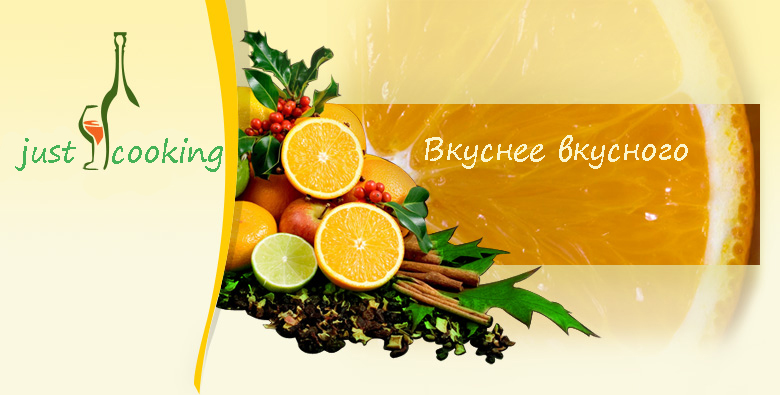
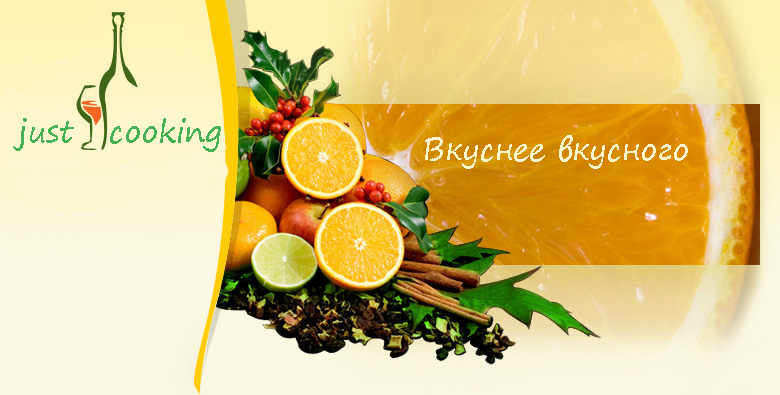
Сделал поиск для пользователя

Changed region(s): [[0.0, 0.0304, 0.3077, 0.4557]]

diff --git a/templatemo_style.css b/templatemo_style.css
@@ -47,7 +47,7 @@ a:active, a:hover { color: #f26521; text-decoration: underline; }
 #templatemo_menu {
 	float: left;
 	width: 152px;
-	margin: 200px 0 0 30px;
+	margin: 165px 0 0 30px;
 	padding: 0;
 }
 

diff --git a/application/views/searchs.php b/application/views/searchs.php
@@ -1,0 +1,72 @@
+            <div id="templatemo_right_col">
+                <div id="form_search">
+                	<?php
+						$attributes = array(
+						    'class' => 'user_search', 
+						    'id' => 'form_user_searc'
+						);
+						echo form_open('users/searchs/search', $attributes); 
+					?>
+							<input type="text" name="search_text" />
+							<input type="submit" name="user_search_btn" id="btn_search" value="Найти" />
+					<?php 
+						echo form_close();
+					?>
+                </div>
+                <?php
+                if(isset($searchflag) && $searchflag == 1){
+				?>
+            	<div class="templatemo_post_area">
+            		<h1>Рецепты</h1>
+            	</div>
+            	<ul>
+            	<?php foreach ($recipes as $item):?>
+					<li>
+						<a href="<?=base_url();?>users/recipes/show/<?=$item['recipe_id']?>">
+							<img src="<?=base_url();?>images/<?=$item['image']?>" height="150" width="150"/>
+						</a>
+						&nbsp;
+						<a href="<?=base_url();?>users/recipes/show/<?=$item['recipe_id']?>">
+							<?=$item['description']?>
+						</a>
+					</li>
+				<?php endforeach; ?>
+            	</ul>
+                <div id="pagination">
+                	<?php
+	                	for ($i=1; $i <= $recordCount + 1; $i++):
+                			if ($pageIndex == 1){
+	                ?> 
+                				<a href="<?=base_url();?>users/news/index/<?=$i?>"
+                					<?php 
+										if($i == $currentPage) 
+											echo 'class="current"';
+									?>
+                				><?=$i?></a>
+	                <?php
+                			}
+                			if ($pageIndex == 2){
+	                ?> 
+                				<a href="<?=base_url();?>users/feast/index/<?=$i?>"
+                					<?php 
+										if($i == $currentPage) 
+											echo 'class="current"';
+									?>
+                				><?=$i?></a>
+	                <?php
+                			}
+                			if ($pageIndex == 3){
+	                ?> 
+                				<a href="<?=base_url();?>users/daily/index/<?=$i?>"
+                					<?php 
+										if($i == $currentPage) 
+											echo 'class="current"';
+									?>
+                				><?=$i?></a>
+	                <?php
+                			}
+                		endfor; ?>
+                </div>
+                <?php 
+            	}
+            	?>

diff --git a/application/controllers/users/Searchs.php b/application/controllers/users/Searchs.php
@@ -1,0 +1,79 @@
+<?php
+defined('BASEPATH') OR exit('No direct script access allowed');
+
+class Coments {
+	public $coment = null;
+	public $user = null;
+
+	function __construct($c,$u){
+        $this->coment = $c;
+        $this->user = $u;
+    }
+}
+
+class Searchs extends CI_Controller {
+
+	public function getTitleComent()
+	{
+		$this->load->model('coment');
+		$this->db->order_by('datetime', 'desc');
+		$this->db->limit (5, 0);
+		$coment = $this->coment->getlist();
+		
+		$this->load->model('user');
+		$users = array();
+		$coments = array();
+		foreach ($coment as $value) {
+			$temp = $this->user->get($value['user_id']);
+			foreach ($temp as $var) {
+				$temp = $var;
+				break;
+				}
+			$coments[] = new Coments($value,$temp);
+		}
+		return $coments;
+	}
+
+	public function index($id = 1)
+	{
+		$titlecoment = $this->getTitleComent();
+		$data = array(
+			'titlecoment' => $titlecoment,
+			'pageIndex' => 4,
+			'currentPage' => $id,
+			'username' => $this->session->userdata('username'),
+			'title' => 'Поиск рецепта'
+			);
+		$this->load->helper('url');
+		$this->load->view('users/menu',$data);
+		$this->load->view('searchs',$data);
+		$this->load->view('users/footer');
+	}
+
+	public function search($id = 1)
+	{
+		if(isset($_POST['user_search_btn'])){
+			$titlecoment = $this->getTitleComent();
+			$this->load->model('recipe');
+			$datain = $_POST['search_text'];
+			$this->db->like('description', $datain);
+			$this->db->limit (10, ($id - 1) * 10);
+			$recipes = $this->recipe->getlist();
+			$recordCount = count($this->recipe->getlist()) / 10;
+			$data = array(
+				'recipes' => $recipes,
+				'titlecoment' => $titlecoment,
+				'pageIndex' => 4,
+				'currentPage' => $id,
+				'searchflag' => 1,
+				'recordCount' => $recordCount,
+				'username' => $this->session->userdata('username'),
+				'title' => 'Поиск рецепта'
+				);
+			$this->load->helper('url');
+			$this->load->view('users/menu',$data);
+			$this->load->view('searchs',$data);
+			$this->load->view('users/footer');
+		}
+	}
+}

diff --git a/application/controllers/admin/Search.php b/application/controllers/admin/Search.php
@@ -1,0 +1,51 @@
+<?php
+defined('BASEPATH') OR exit('No direct script access allowed');
+
+class Coments {
+	public $coment = null;
+	public $user = null;
+
+	function __construct($c,$u){
+        $this->coment = $c;
+        $this->user = $u;
+    }
+}
+
+class Search extends CI_Controller {
+
+	public function getTitleComent()
+	{
+		$this->load->model('coment');
+		$this->db->order_by('datetime', 'desc');
+		$this->db->limit (5, 0);
+		$coment = $this->coment->getlist();
+		
+		$this->load->model('user');
+		$users = array();
+		$coments = array();
+		foreach ($coment as $value) {
+			$temp = $this->user->get($value['user_id']);
+			foreach ($temp as $var) {
+				$temp = $var;
+				break;
+				}
+			$coments[] = new Coments($value,$temp);
+		}
+		return $coments;
+	}
+
+	public function index($data = "")
+	{
+		$titlecoment = $this->getTitleComent();
+		$data = array(
+			'titlecoment' => $titlecoment,
+			'pageIndex' => 0,
+			'username' => $this->session->userdata('username'),
+			'title' => 'Главная страница'
+			);
+		$this->load->helper('url');
+		$this->load->view('users/menu',$data);
+		$this->load->view('home');
+		$this->load->view('users/footer');
+	}
+}

diff --git a/application/controllers/forum/Search.php b/application/controllers/forum/Search.php
@@ -1,0 +1,51 @@
+<?php
+defined('BASEPATH') OR exit('No direct script access allowed');
+
+class Coments {
+	public $coment = null;
+	public $user = null;
+
+	function __construct($c,$u){
+        $this->coment = $c;
+        $this->user = $u;
+    }
+}
+
+class Search extends CI_Controller {
+
+	public function getTitleComent()
+	{
+		$this->load->model('coment');
+		$this->db->order_by('datetime', 'desc');
+		$this->db->limit (5, 0);
+		$coment = $this->coment->getlist();
+		
+		$this->load->model('user');
+		$users = array();
+		$coments = array();
+		foreach ($coment as $value) {
+			$temp = $this->user->get($value['user_id']);
+			foreach ($temp as $var) {
+				$temp = $var;
+				break;
+				}
+			$coments[] = new Coments($value,$temp);
+		}
+		return $coments;
+	}
+
+	public function index($data = "")
+	{
+		$titlecoment = $this->getTitleComent();
+		$data = array(
+			'titlecoment' => $titlecoment,
+			'pageIndex' => 0,
+			'username' => $this->session->userdata('username'),
+			'title' => 'Главная страница'
+			);
+		$this->load->helper('url');
+		$this->load->view('users/menu',$data);
+		$this->load->view('home');
+		$this->load->view('users/footer');
+	}
+}

diff --git a/application/views/users/menu.php b/application/views/users/menu.php
@@ -91,6 +91,15 @@
 						</a>
 					</li>
 					<li>
+						<a href="<?=base_url();?>users/searchs/index" 
+							<?php if($uri == 'users/searchs' || $pageIndex == 4) 
+								echo 'class="current"';
+							?>
+						>
+							Поиск&nbsp;рецептов
+						</a>
+					</li>
+					<li>
 						<a href="<?=base_url();?>users/news" 
 							<?php if($uri == 'users/news' || $pageIndex == 1) 
 								echo 'class="current"';

diff --git a/application/config/database.php b/application/config/database.php
@@ -66,7 +66,7 @@ $db['default'] = array(
 	'dsn'	=> '',
 	'hostname' => 'localhost',
 	'username' => 'root',
-	'password' => '',
+	'password' => 'ghjcnjnf',
 	'database' => 'kursach_web',
 	'dbdriver' => 'mysqli',
 	'dbprefix' => 'web_',
